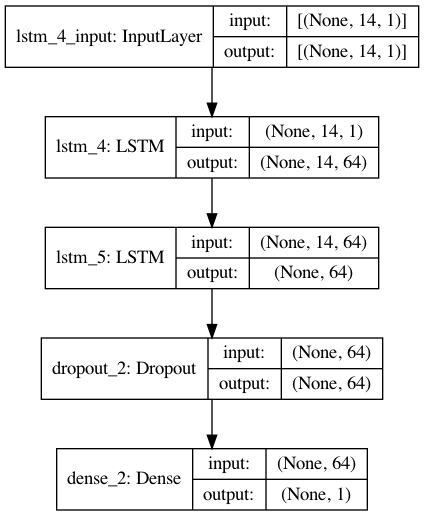
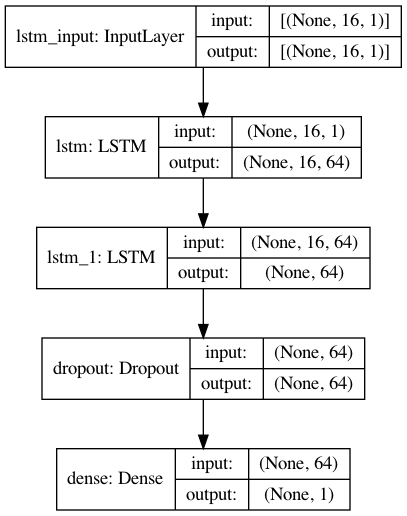
规范命名，添加MLP模型对比

diff --git a/test.py b/test.py
@@ -73,7 +73,7 @@ def plot_results(y_true, y_preds, names):
         y_pred: List/ndarray, predicted data.
         names: List, Method names.
     """
-    d = '2018-04-03 00:00'
+    d = '2018-04-05 00:00'
     x = pd.date_range(d, periods=len(y_true),freq='5min')
 
     fig = plt.figure()
@@ -89,19 +89,19 @@ def plot_results(y_true, y_preds, names):
     plt.ylabel('Volumns')
     date_format = mpl.dates.DateFormatter("%H:%M")
     ax.xaxis.set_major_formatter(date_format)
-    fig.autofmt_xdate()
+    fig.autofmt_xdate()#斜放
 
     plt.show()
     # plt.savefig("images/pre_weekend_time.png")
 
 def main():
-    lag = 10
+    lag = 16
     lstm = load_model("model/lstm-"+str(lag)+".h5")
     allDense = load_model('model/AllDense-10.h5')
     models = [lstm]
-    models = [allDense]
+    # models = [allDense]
     names = ['lstm']
-    names = ['AllDense']
+    # names = ['AllDense']
     file1 = 'data/100211data/100211_weekend_train.csv'
     file2 = 'data/100211data/100211_weekend_test.csv'
     _, _, X_test, y_test, scaler = process_data(file1, file2, lag)
@@ -118,6 +118,7 @@ def main():
         y_preds.append(predicted[0:288])
         print(name)
         eva_regress(y_test, predicted)
+        # print(y_test.shape,predicted.shape)
 
     plot_results(y_test[0:288], y_preds, names)
 

diff --git a/train.py b/train.py
@@ -61,7 +61,7 @@ def main(argv):
     file2 = 'data/100211data/100211_all_test.csv'
 
     #得到不同lag的lstm model
-    for i in range(4,10,2):
+    for i in range(16,18,2):
         lag = i
         X_train, y_train, _, _, _ = process_data(file1, file2, lag)
         X_train = np.reshape(X_train, (X_train.shape[0], X_train.shape[1], 1))

diff --git a/model/model.py b/model/model.py
@@ -25,7 +25,7 @@ def get_lstm(units):
 
 def get_AllDense(units):
     """
-    Build nn Model with dense.
+    Build MLP Model with dense.
 
     # Arguments
         units: List(int), number of input, output and hidden units.
